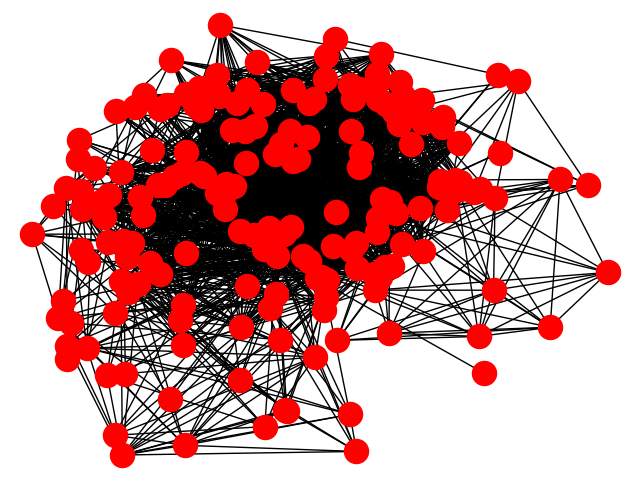
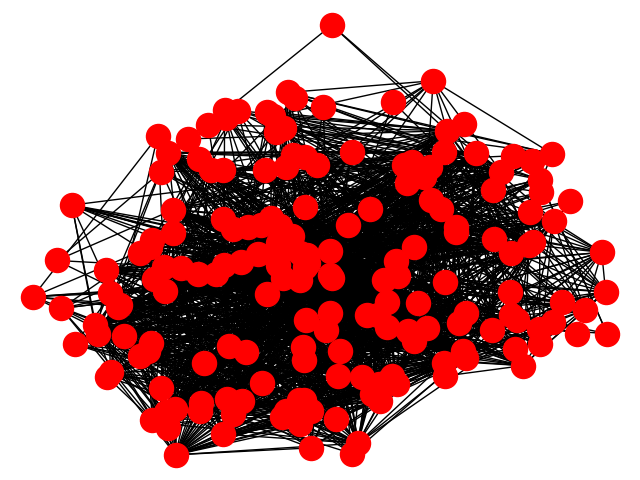
我不ll

diff --git a/jarden_center/main_code/single-multiple-source/baseon_xytoIdenitySource/main.py b/jarden_center/main_code/single-multiple-source/baseon_xytoIdenitySource/main.py
@@ -438,7 +438,7 @@ def   findmultiplesource(singleRegionList,infectionG):
       pos={}
       for  node in tempGraph.nodes:
           pos[node]=[random.uniform(0,10),random.uniform(0,10)]
-      for  i  in range(10):
+      for  i  in range(50):
             print ('这是第'+str(i)+'次迭代。哈哈哈哈---------------------------------------------------------------')
             #计算每一个点受到的力,只跟邻居节点有关系
             for node in tempGraph.nodes:
